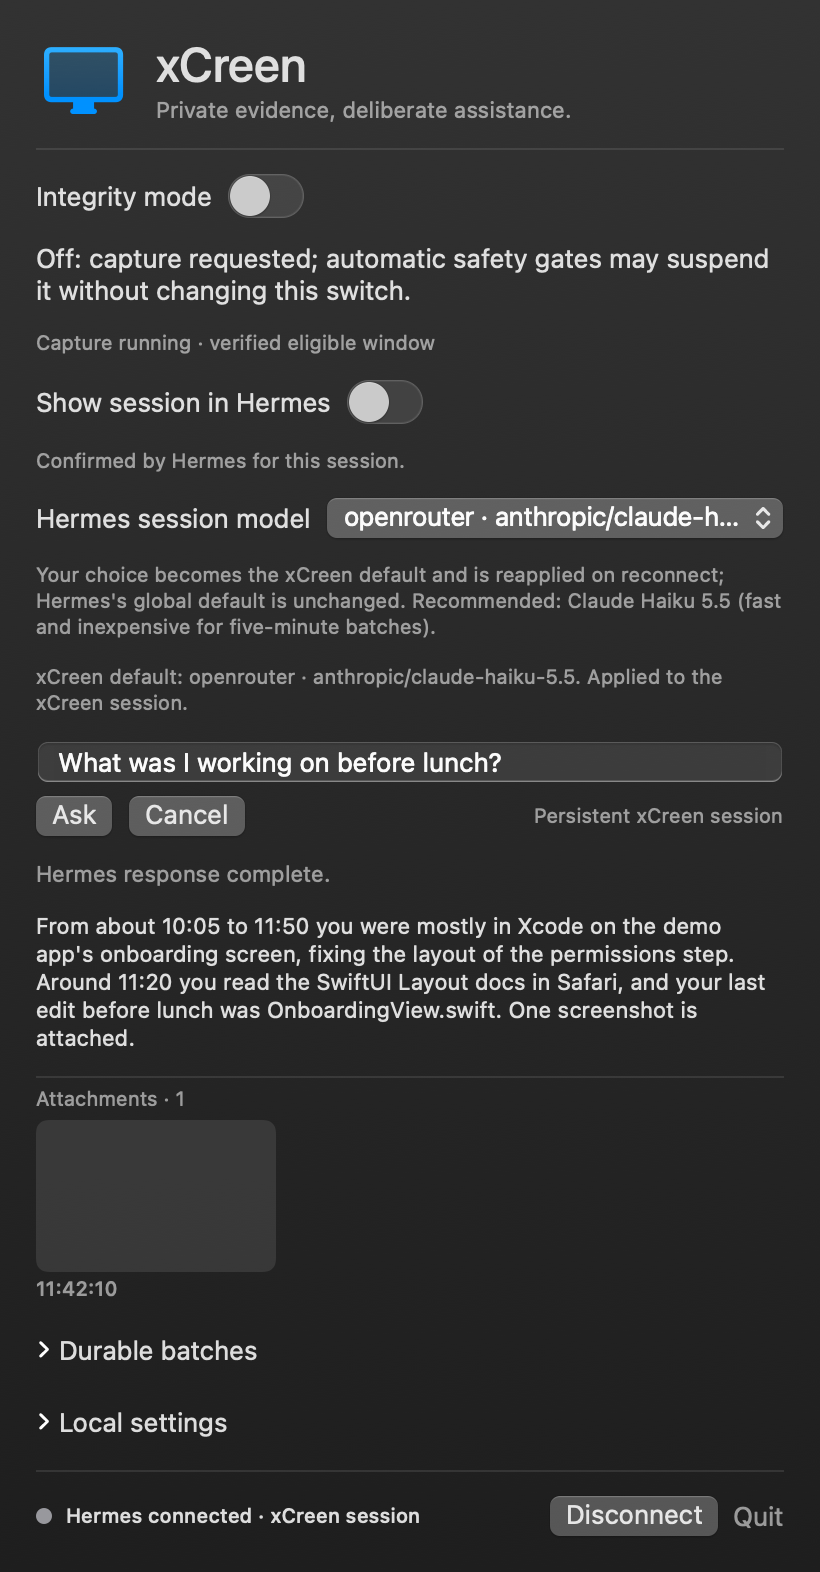
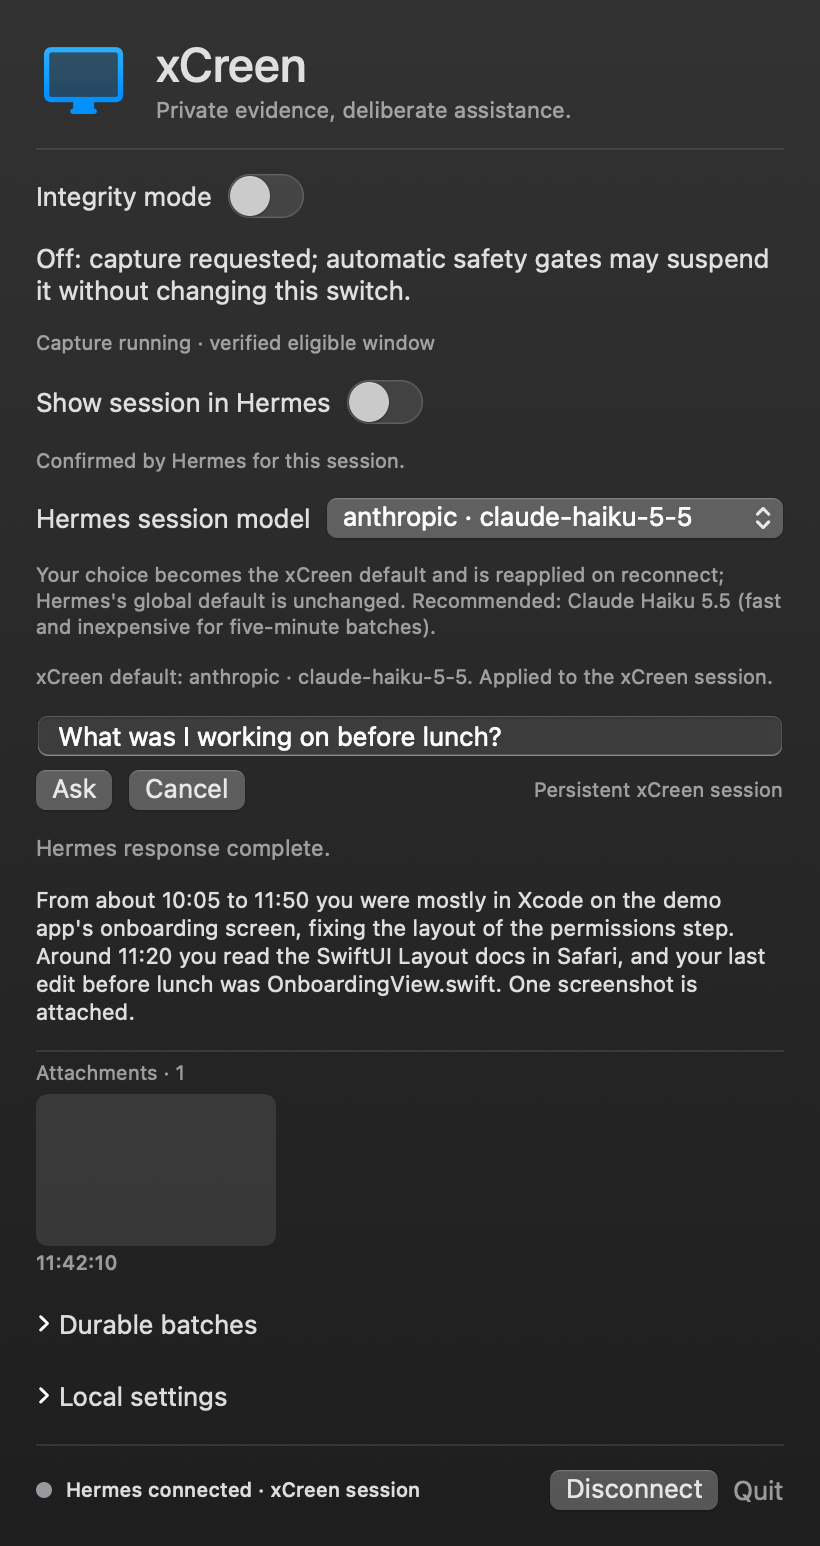
docs: describe Anthropic Haiku 5.5 default and re-render assets

diff --git a/site/faq/index.html b/site/faq/index.html
@@ -72,7 +72,7 @@
       "name": "Which AI models can xCreen use?",
       "acceptedAnswer": {
         "@type": "Answer",
-        "text": "Any model your Hermes Agent setup has configured: xCreen lists Hermes's configured routes and lets you pick one for the xCreen session. The default for the xCreen session is Claude Haiku 5.5 via OpenRouter (openrouter / anthropic/claude-haiku-5.5). Changing it with the tray picker or xcreen model default PROVIDER MODEL affects only the xCreen session, never Hermes's global default. An unavailable model is reported rather than silently replaced. Check that your chosen route accepts images."
+        "text": "Any model your Hermes Agent setup has configured: xCreen lists Hermes's configured routes and lets you pick one for the xCreen session. The default for the xCreen session is Claude Haiku 5.5 on your Anthropic account (anthropic / claude-haiku-5-5). Changing it with the tray picker or xcreen model default PROVIDER MODEL affects only the xCreen session, never Hermes's global default. An unavailable model is reported rather than silently replaced. Check that your chosen route accepts images."
       }
     },
     {
@@ -199,7 +199,7 @@
 
 <h2 id="which-ai-models-can-xcreen-use">Which AI models can xCreen use?</h2>
 <p><strong>Any model your Hermes Agent setup has configured: xCreen lists Hermes's configured routes and lets you pick one for the xCreen session.</strong></p>
-<p>The default for the xCreen session is Claude Haiku 5.5 via OpenRouter (<code>openrouter</code> / <code>anthropic/claude-haiku-5.5</code>). Changing it with the tray picker or <code>xcreen model default PROVIDER MODEL</code> affects only the xCreen session, never Hermes's global default. An unavailable model is reported rather than silently replaced. Check that your chosen route accepts images.</p>
+<p>The default for the xCreen session is Claude Haiku 5.5 on your Anthropic account (<code>anthropic</code> / <code>claude-haiku-5-5</code>). Changing it with the tray picker or <code>xcreen model default PROVIDER MODEL</code> affects only the xCreen session, never Hermes's global default. An unavailable model is reported rather than silently replaced. Check that your chosen route accepts images.</p>
 
 <h2 id="is-xcreen-free">Is xCreen free?</h2>
 <p><strong>Yes: xCreen is free and open source under the <a href="https://github.com/Al-ex-W/xCreen/blob/main/LICENSE">Apache-2.0 license</a>, including for commercial use.</strong></p>

diff --git a/site/index.html b/site/index.html
@@ -84,7 +84,7 @@
   <li><strong>One Hermes session, not a new chat each time.</strong> Every 5 active minutes (or 30 images), a batch goes to a single persistent xCreen session in your Hermes Agent.</li>
   <li><strong>Sourced insights in your Daily notes.</strong> The model appends only useful findings to that day's note in your Obsidian vault, each linked to its captured evidence. If nothing is worth saving, the batch is marked skipped.</li>
   <li><strong>Integrity switch.</strong> One switch, controlled only by you, stops all new screenshots and OCR. It is ON at first launch and keeps your choice across restarts.</li>
-  <li><strong>Any model you configure.</strong> Pick any model your Hermes setup has configured. The xCreen session default is Claude Haiku 5.5 via OpenRouter.</li>
+  <li><strong>Any model you configure.</strong> Pick any model your Hermes setup has configured. The xCreen session default is Claude Haiku 5.5 on your Anthropic account.</li>
 </ul>
 
 <h2 id="how-it-works">How it works</h2>

diff --git a/Sources/XCreenScreenshots/main.swift b/Sources/XCreenScreenshots/main.swift
@@ -12,11 +12,11 @@ import XCreenUI
     let sessionVisible = false
     let visibilityStatus = "Confirmed by Hermes for this session."
     let hermesModels = [
-        HermesModelRoute(provider: "openrouter", model: "anthropic/claude-haiku-5.5"),
-        HermesModelRoute(provider: "openrouter", model: "anthropic/claude-sonnet-5"),
+        HermesModelRoute(provider: "anthropic", model: "claude-haiku-5-5"),
+        HermesModelRoute(provider: "anthropic", model: "claude-sonnet-5"),
     ]
-    let selectedHermesModel = "openrouter::anthropic/claude-haiku-5.5"
-    let modelDefaultStatus = "xCreen default: openrouter · anthropic/claude-haiku-5.5. Applied to the xCreen session."
+    let selectedHermesModel = "anthropic::claude-haiku-5-5"
+    let modelDefaultStatus = "xCreen default: anthropic · claude-haiku-5-5. Applied to the xCreen session."
     @Published var query = "What was I working on before lunch?"
     var canAsk: Bool { !query.isEmpty }
     let connected = true

diff --git a/docs/architecture.md b/docs/architecture.md
@@ -33,7 +33,7 @@ The bundled Python bootstrap registers only the six scoped xCreen tools and star
 
 `HermesSessionRuntime` resumes the exact stored xCreen identity; all manual/automatic submits, model changes and compression share that session owner. Terminal events, not admission acknowledgments, finish a turn and return its own collected output. Manual work has priority and a per-question identity reserved before connection/task admission. Cancel removes that queued question or interrupts only its matching current turn. Integrity invalidates queued automatic turns and cancels an active automatic turn; a later OFF does not restore an invalidated epoch. Transmission checks bind both epoch and turn identity. Disconnect fails outstanding/queued turns before replacement; observer EOF is generation-bound. Compaction reserves incoming/output headroom and triggers at 500k context tokens or earlier for a smaller usable window; it is lossy summary, not eternal exact recall.
 
-Provider-aware model inventory comes from `model.options`; session-scoped selection uses `/model ... --provider ... --session`, leaving Hermes defaults/profiles untouched. xCreen persists its own default (provider+model, built-in `openrouter` · `anthropic/claude-haiku-5.5`) in the app's preferences and applies it to the xCreen session on every connect/resume, resolved against live `model.options`. An unavailable route is reported in status/tray and the session model is left unchanged — no silent fallback. Tray picker and `xcreen model select` also update the preference; `xcreen model default [PROVIDER MODEL]` reads/sets it. Inventory does not currently prove vision support or image limits. History is read through host-side `xcreen.history.page` for the same runtime session. Sanitization, oversized placeholders, stable snapshot cursors and 48,000-byte page bounds are applied before gateway stdout; the app never fetches a full history frame before pagination. Session-info events synchronize current provider/model into the tray.
+Provider-aware model inventory comes from `model.options`; session-scoped selection uses `/model ... --provider ... --session`, leaving Hermes defaults/profiles untouched. xCreen persists its own default (provider+model, built-in `anthropic` · `claude-haiku-5-5`) in the app's preferences and applies it to the xCreen session on every connect/resume, resolved against live `model.options`. An unavailable route is reported in status/tray and the session model is left unchanged — no silent fallback. Tray picker and `xcreen model select` also update the preference; `xcreen model default [PROVIDER MODEL]` reads/sets it. Inventory does not currently prove vision support or image limits. History is read through host-side `xcreen.history.page` for the same runtime session. Sanitization, oversized placeholders, stable snapshot cursors and 48,000-byte page bounds are applied before gateway stdout; the app never fetches a full history frame before pagination. Session-info events synchronize current provider/model into the tray.
 
 ## Tools and vault boundary
 

diff --git a/INSTALL.md b/INSTALL.md
@@ -39,7 +39,7 @@ xcreen model default                       # show the xCreen session default
 xcreen model select PROVIDER EXACT_MODEL_ID # also saves it as the xCreen default
 ```
 
-Settings are persisted by the running app and its gateway reconnects; session identity is retained. The xCreen session default is Claude Haiku 5.5 via OpenRouter (`openrouter` / `anthropic/claude-haiku-5.5`) until you pick another configured route in the tray or with `xcreen model default PROVIDER MODEL`; it applies only to the xCreen session, never Hermes's global default, and an unavailable model is reported rather than replaced. Do not use `defaults write` as a parallel live control surface. The installer pre-fills defaults only while the app is stopped.
+Settings are persisted by the running app and its gateway reconnects; session identity is retained. The xCreen session default is Claude Haiku 5.5 on your Anthropic account (`anthropic` / `claude-haiku-5-5`) until you pick another configured route in the tray or with `xcreen model default PROVIDER MODEL`; it applies only to the xCreen session, never Hermes's global default, and an unavailable model is reported rather than replaced. Do not use `defaults write` as a parallel live control surface. The installer pre-fills defaults only while the app is stopped.
 
 ## User-only deliberate actions
 The **Show session in Hermes** tray toggle defaults OFF (hidden). Use `xcreen session visibility on` or `off` to change that same persisted preference for the existing xCreen session. Offline changes remain pending until connection/resume applies them. `xcreen --json status` separates desired `sessionVisible`, last gateway-confirmed `actualSessionVisible` (absent when unknown), and `sessionVisibilityPending`. No profile defaults, session identity, Integrity preference or capture behavior change. Upgrading an existing install with no saved visibility preference applies hidden on its next connection, even if the session was previously manually unhidden.

diff --git a/docs/how-it-works.md b/docs/how-it-works.md
@@ -31,7 +31,7 @@ xCreen does not modify Hermes profile defaults or other conversations.
 
 ## Models
 
-Model inventory comes from Hermes's provider-aware configured routes. xCreen keeps its own session default — Claude Haiku 5.5 via OpenRouter (`openrouter` / `anthropic/claude-haiku-5.5`) unless changed with the tray picker or `xcreen model default` — applied only to the xCreen session with a session-scoped model switch and reported if unavailable (no fallback). Inventory currently carries no reliable vision/image-limit metadata, so check that your chosen route accepts images.
+Model inventory comes from Hermes's provider-aware configured routes. xCreen keeps its own session default — Claude Haiku 5.5 on your Anthropic account (`anthropic` / `claude-haiku-5-5`) unless changed with the tray picker or `xcreen model default` — applied only to the xCreen session with a session-scoped model switch and reported if unavailable (no fallback). Inventory currently carries no reliable vision/image-limit metadata, so check that your chosen route accepts images.
 
 OCR runs locally. Inference does not: batches and questions go to whichever provider the selected route uses.
 

diff --git a/README.md b/README.md
@@ -21,7 +21,7 @@ Looking for an open-source Rewind or Microsoft Recall alternative for Mac? xCree
 - **Batches into one Hermes session.** Every 5 active minutes (or 30 images), a batch goes to a single persistent xCreen session in your Hermes Agent. It does not start a new chat each time.
 - **Sourced insights in your Daily notes.** The model appends only useful findings to that day's note in your Obsidian vault, each linked to its captured evidence. If nothing is worth saving, the batch is marked skipped.
 - **Integrity switch.** One switch, controlled only by you, stops all new screenshots and OCR. It is ON at first launch and keeps your choice across restarts.
-- **7-day local retention, any model.** Raw evidence is deleted after seven days. You can pick any model your Hermes setup has configured. The default for the xCreen session is Claude Haiku 5.5 via OpenRouter.
+- **7-day local retention, any model.** Raw evidence is deleted after seven days. You can pick any model your Hermes setup has configured. The default for the xCreen session is Claude Haiku 5.5 on your Anthropic account.
 
 ## xCreen vs alternatives
 

diff --git a/docs/cli.md b/docs/cli.md
@@ -73,7 +73,7 @@ xcreen restart
 
 **images.** `images list|open` covers the current answer's resolved attachment IDs, not arbitrary paths or a general filesystem browser.
 
-**model.** `models list` shows Hermes's provider-aware configured routes. `model select` and `model default PROVIDER MODEL` set the xCreen session default only (built-in default: `openrouter` / `anthropic/claude-haiku-5.5`); Hermes's global default is unchanged. An unavailable model is reported; there is no silent fallback.
+**model.** `models list` shows Hermes's provider-aware configured routes. `model select` and `model default PROVIDER MODEL` set the xCreen session default only (built-in default: `anthropic` / `claude-haiku-5-5`); Hermes's global default is unchanged. An unavailable model is reported; there is no silent fallback.
 
 **settings.** Changes are persisted by the running app and report persistence and reconnect failure separately. Do not use `defaults write` as a parallel live control surface.
 
